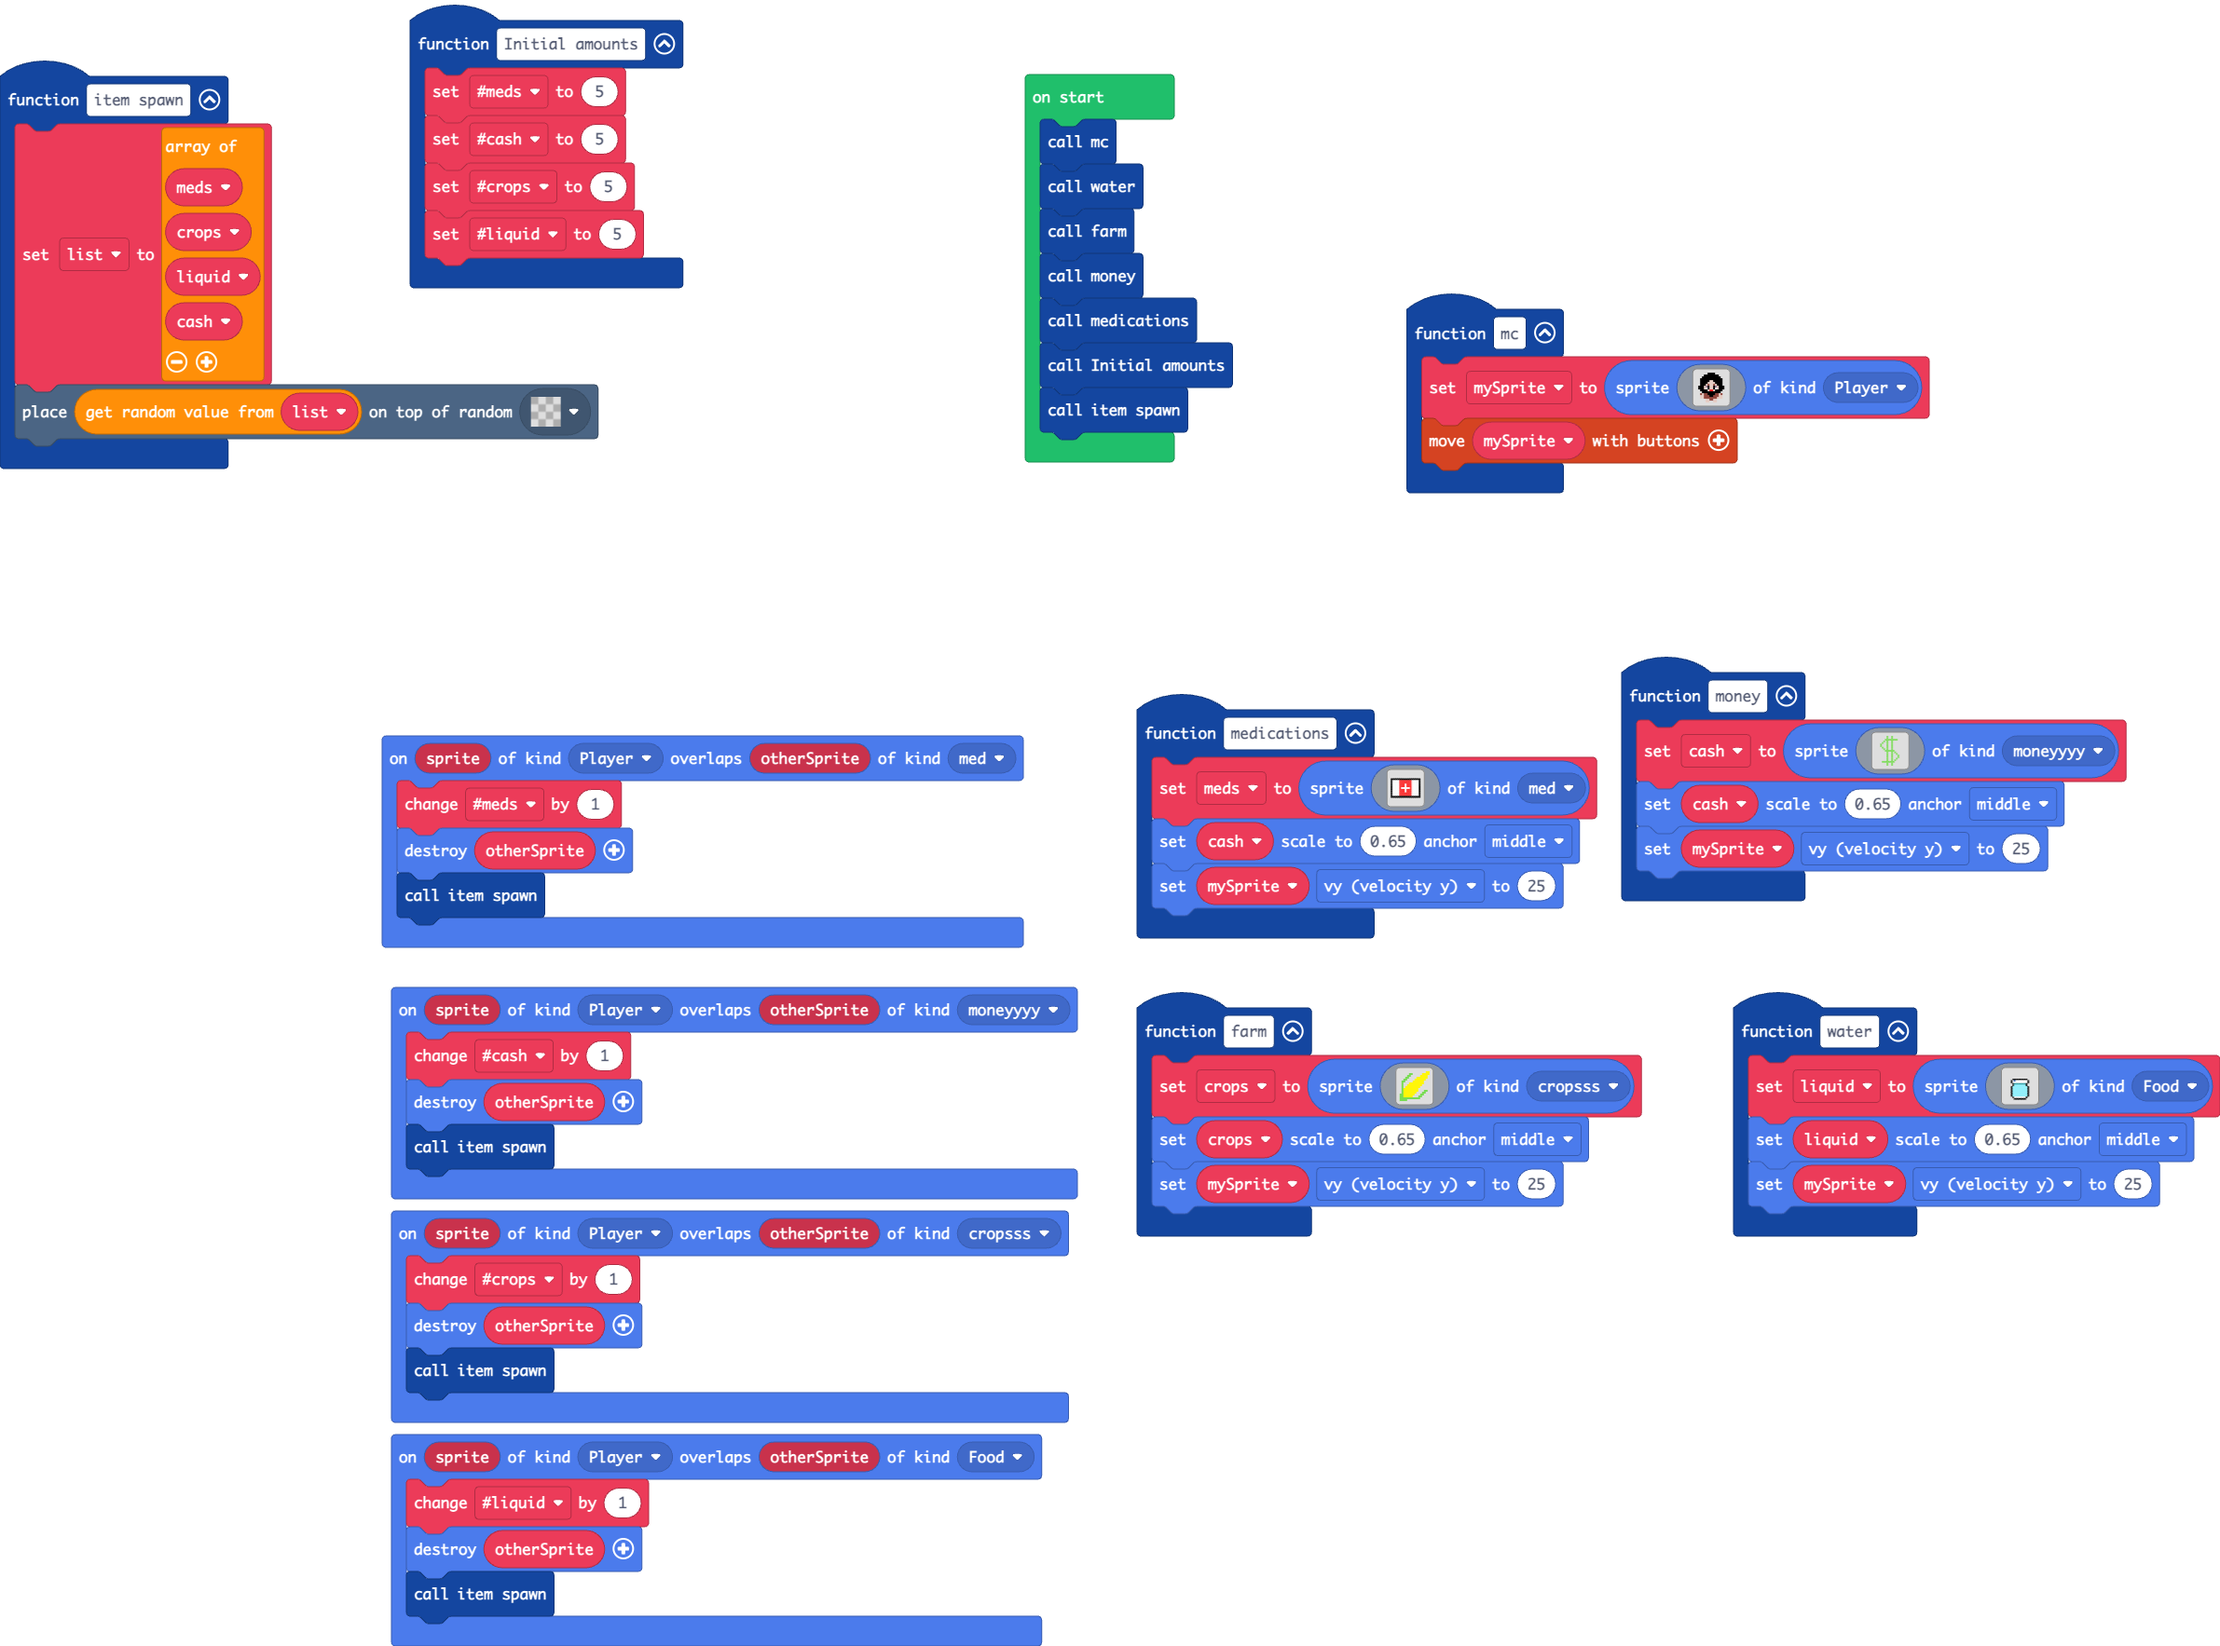
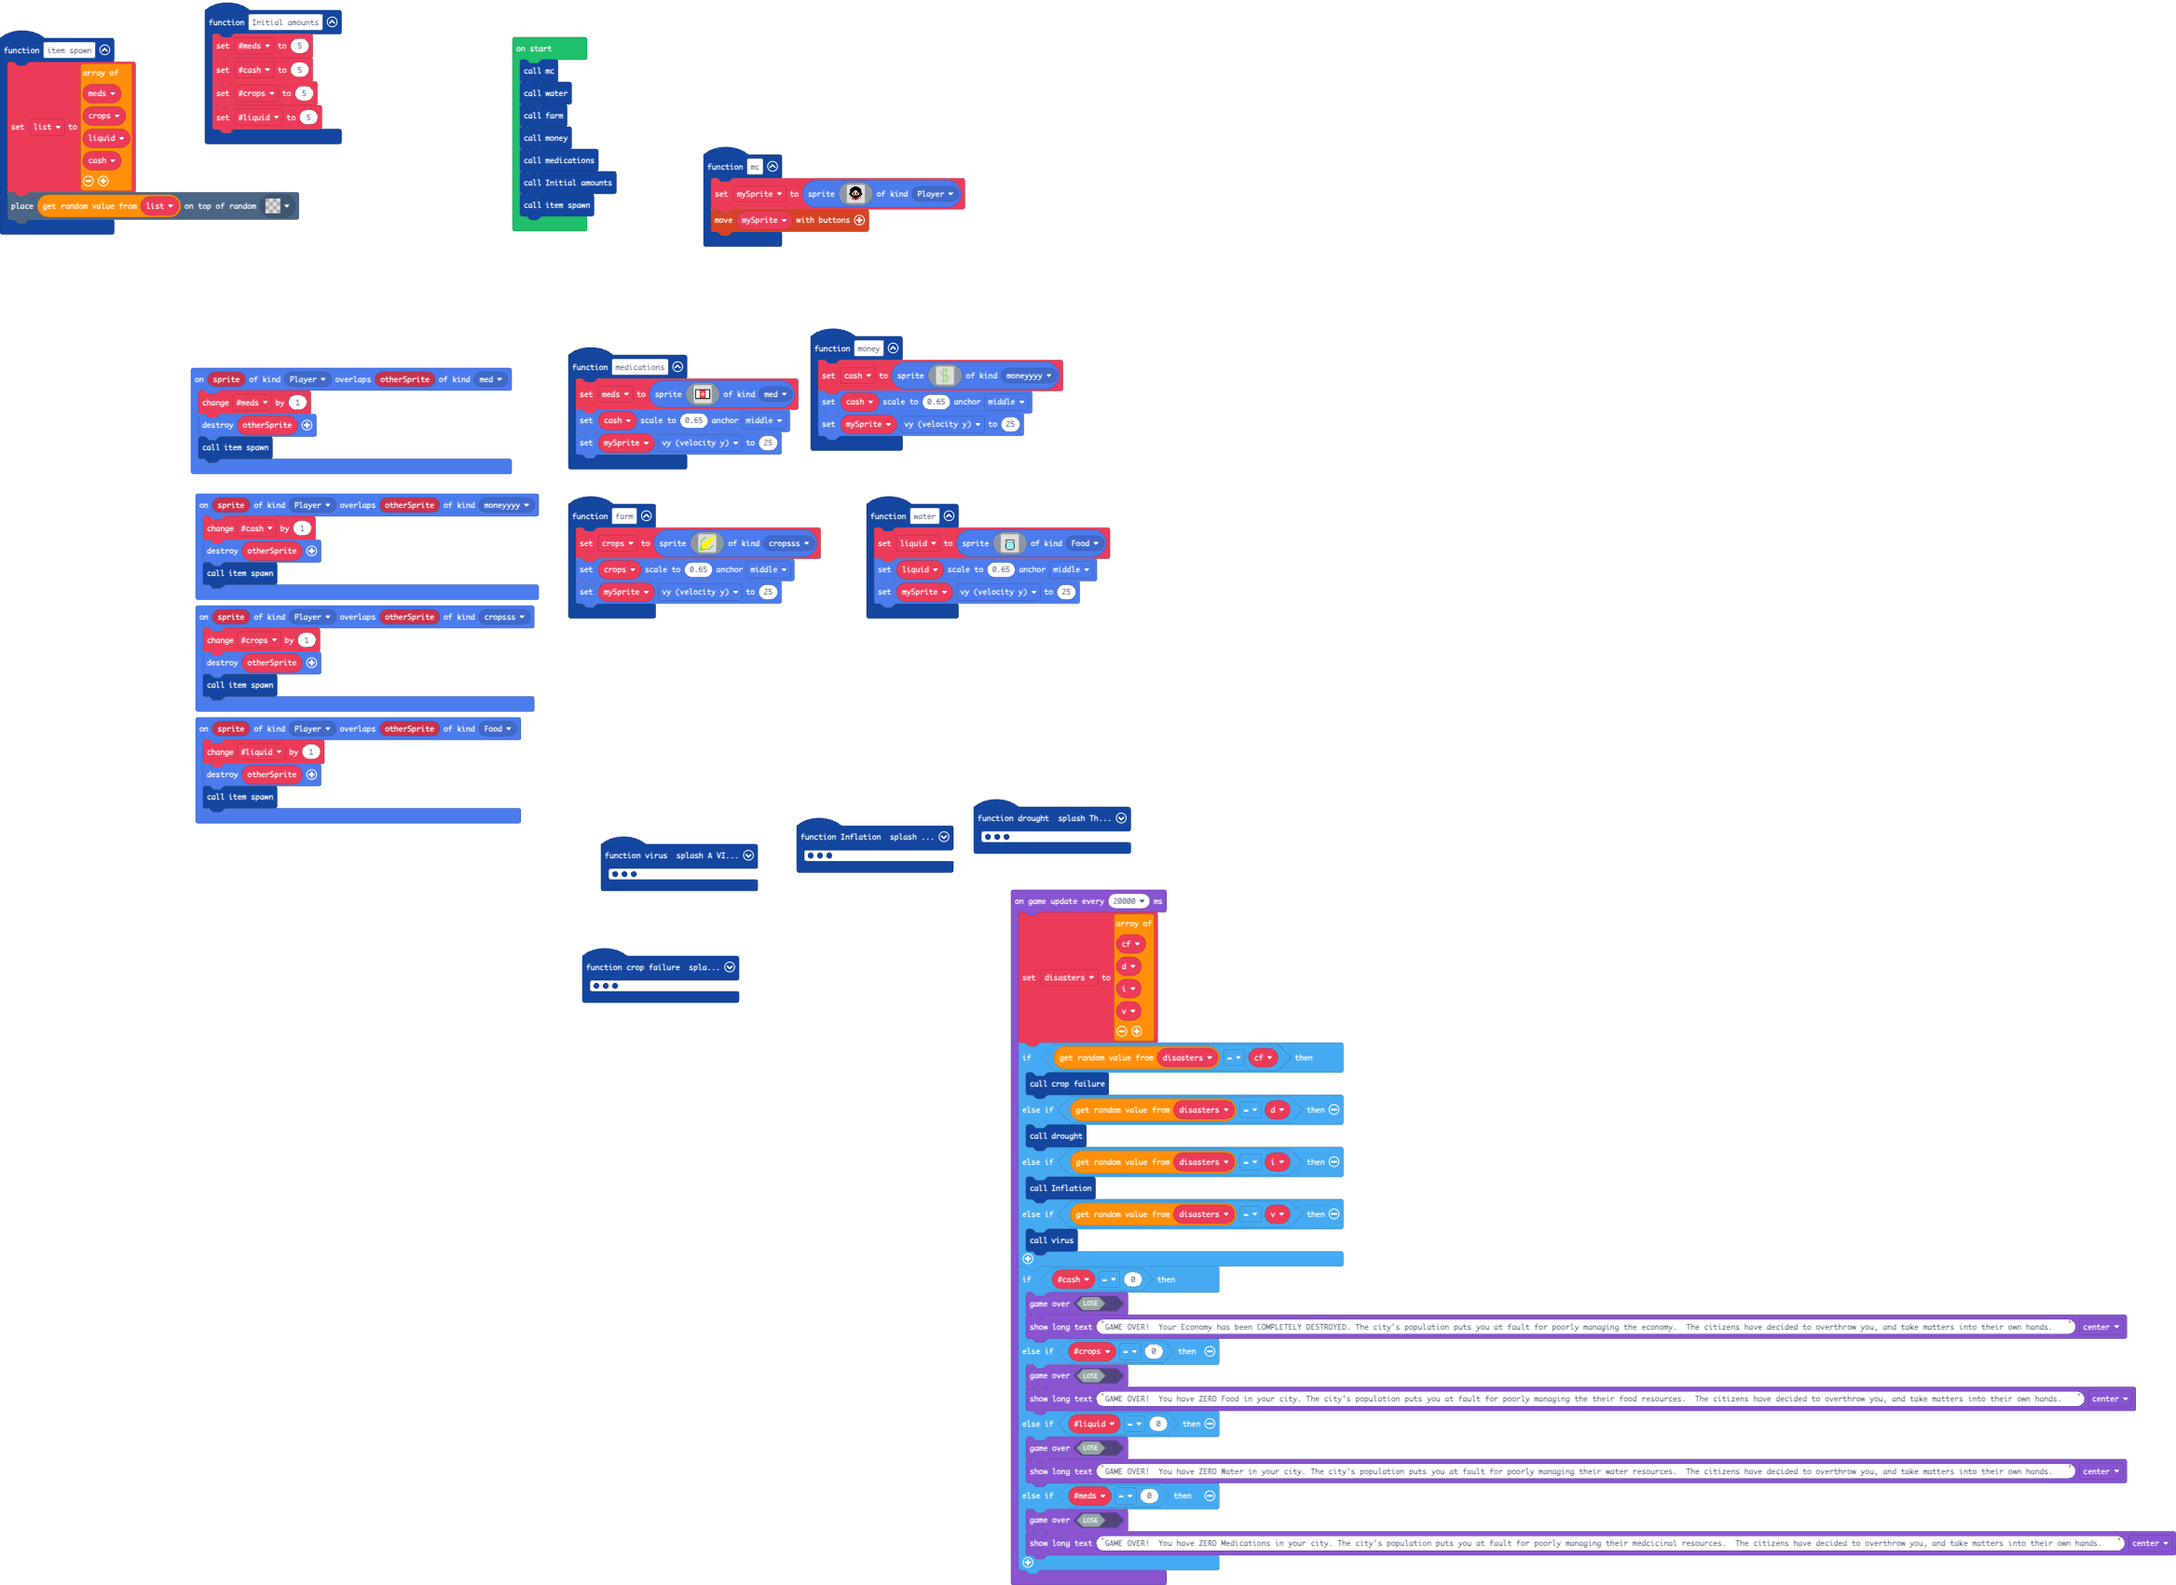
Update main.blocks, main.ts

diff --git a/main.ts b/main.ts
@@ -57,13 +57,21 @@ sprites.onOverlap(SpriteKind.Player, SpriteKind.moneyyyy, function (sprite, othe
     sprites.destroy(otherSprite)
     item_spawn()
 })
+function virus () {
+    game.splash("A VIRUS has spread throughout the city!", "POPULATION'S HEALTH IMPACTED! ")
+    meds2 += randint(-1, -3)
+}
+function drought () {
+    game.splash("There is a DROUGHT in the city!", "CITY WATER SUPPLY IMPACTED! ")
+    liquid += randint(-1, -3)
+}
 sprites.onOverlap(SpriteKind.Player, SpriteKind.cropsss, function (sprite, otherSprite) {
     crops += 1
     sprites.destroy(otherSprite)
     item_spawn()
 })
 function water () {
-    liquid = sprites.create(img`
+    liquid2 = sprites.create(img`
         ....................
         ....................
         ....................
@@ -85,14 +93,14 @@ function water () {
         ......ffffffff......
         ....................
         `, SpriteKind.Food)
-    liquid.setScale(0.65, ScaleAnchor.Middle)
+    liquid2.setScale(0.65, ScaleAnchor.Middle)
     mySprite.vy = 25
 }
 function Initial_amounts () {
     meds2 = 5
     cash2 = 5
     crops = 5
-    liquid2 = 5
+    liquid = 5
 }
 function money () {
     cash = sprites.create(img`
@@ -141,8 +149,12 @@ function farm () {
     crops2.setScale(0.65, ScaleAnchor.Middle)
     mySprite.vy = 25
 }
+function crop_failure () {
+    game.splash("A FAMINE has begun in the city!", "CITY FOOD SUPPLY IMPACTED! ")
+    crops += randint(-1, -3)
+}
 sprites.onOverlap(SpriteKind.Player, SpriteKind.Food, function (sprite, otherSprite) {
-    liquid2 += 1
+    liquid += 1
     sprites.destroy(otherSprite)
     item_spawn()
 })
@@ -150,16 +162,21 @@ function item_spawn () {
     list = [
     meds,
     crops2,
-    liquid,
+    liquid2,
     cash
     ]
     tiles.placeOnRandomTile(list._pickRandom(), assets.tile`transparency16`)
 }
+function Inflation () {
+    game.splash("Inflation has gone rampant in the city!", "ECONOMY IMPACTED! ")
+    cash2 += randint(-1, -3)
+}
+let disasters: number[] = []
 let list: Sprite[] = []
 let crops2: Sprite = null
-let liquid2 = 0
-let liquid: Sprite = null
+let liquid2: Sprite = null
 let crops = 0
+let liquid = 0
 let cash2 = 0
 let meds2 = 0
 let cash: Sprite = null
@@ -172,3 +189,37 @@ money()
 medications()
 Initial_amounts()
 item_spawn()
+game.onUpdateInterval(20000, function () {
+    let v = 0
+    let i = 0
+    let d = 0
+    let cf = 0
+    disasters = [
+    cf,
+    d,
+    i,
+    v
+    ]
+    if (disasters._pickRandom() == cf) {
+        crop_failure()
+    } else if (disasters._pickRandom() == d) {
+        drought()
+    } else if (disasters._pickRandom() == i) {
+        Inflation()
+    } else if (disasters._pickRandom() == v) {
+        virus()
+    }
+    if (cash2 == 0) {
+        game.gameOver(false)
+        game.showLongText("GAME OVER!  Your Economy has been COMPLETELY DESTROYED. The city's population puts you at fault for poorly managing the economy.  The citizens have decided to overthrow you, and take matters into their own hands.   ", DialogLayout.Center)
+    } else if (crops == 0) {
+        game.gameOver(false)
+        game.showLongText("GAME OVER!  You have ZERO Food in your city. The city's population puts you at fault for poorly managing the their food resources.  The citizens have decided to overthrow you, and take matters into their own hands.   ", DialogLayout.Center)
+    } else if (liquid == 0) {
+        game.gameOver(false)
+        game.showLongText("GAME OVER!  You have ZERO Water in your city. The city's population puts you at fault for poorly managing their water resources.  The citizens have decided to overthrow you, and take matters into their own hands.   ", DialogLayout.Center)
+    } else if (meds2 == 0) {
+        game.gameOver(false)
+        game.showLongText("GAME OVER!  You have ZERO Medications in your city. The city's population puts you at fault for poorly managing their medcicinal resources.  The citizens have decided to overthrow you, and take matters into their own hands.   ", DialogLayout.Center)
+    }
+})
